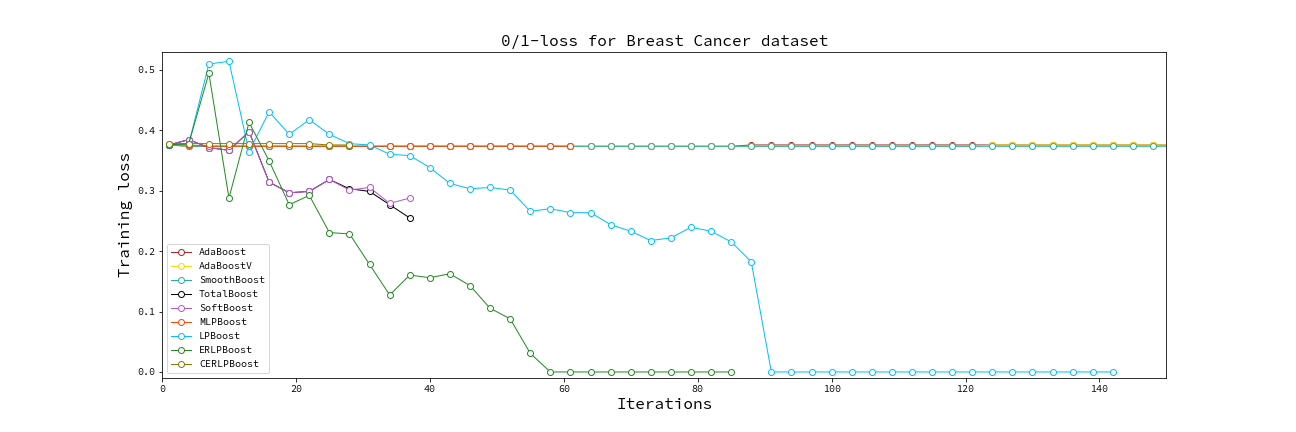
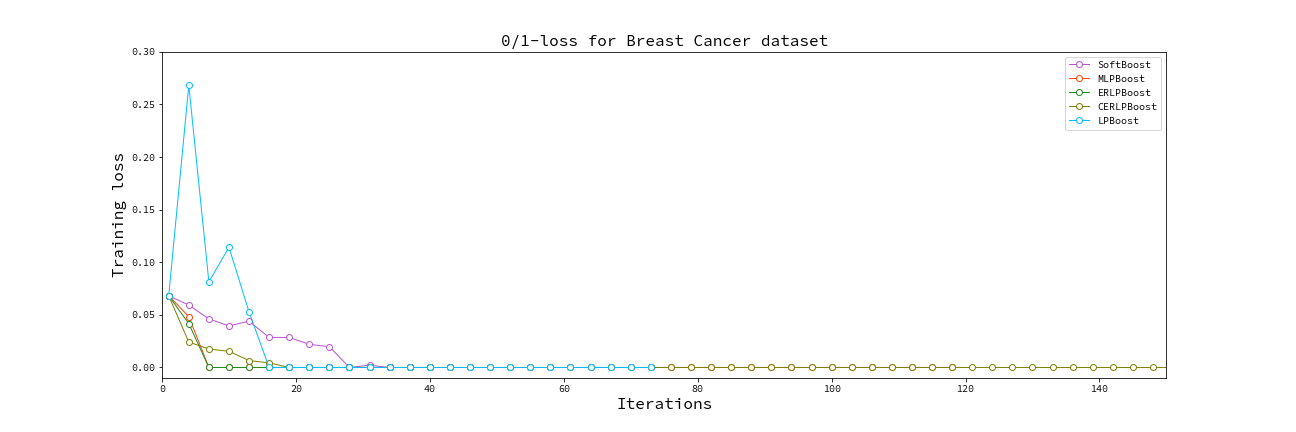
Update Figures in README

diff --git a/img/example/src/main.rs b/img/example/src/main.rs
@@ -1,9 +1,27 @@
-use polars::prelude::*;
 use miniboosts::prelude::*;
 use miniboosts::research::{
-    boost_logger::with_log,
-    loss_functions::zero_one_loss,
+    Logger,
 };
+use miniboosts::common::objective_functions::{
+    SoftMarginObjective,
+};
+
+
+fn zero_one_loss<H>(sample: &Sample, f: &CombinedHypothesis<H>)
+    -> f64
+    where H: Classifier
+{
+    let n_sample = sample.shape().0 as f64;
+
+    let target = sample.target();
+
+    f.predict_all(sample)
+        .into_iter()
+        .zip(target.into_iter())
+        .map(|(hx, &y)| if hx != y as i64 { 1.0 } else { 0.0 })
+        .sum::<f64>()
+        / n_sample
+}
 
 
 fn main() {
@@ -12,61 +30,61 @@ fn main() {
     // Read the train file
     let path = args.next()
         .expect("[USAGE] ./example [csv file (train)] [csv file (test)]");
-    let mut train_x = CsvReader::from_path(path)
+
+    let train = Sample::from_csv(path, true)
         .unwrap()
-        .has_header(true)
-        .finish()
-        .unwrap();
-    let train_y = train_x.drop_in_place("class").unwrap();
+        .set_target("class");
 
+    let n_sample = train.shape().0 as f64;
+    let nu = 0.01 * n_sample;
 
-    // Read the test file
     let path = args.next()
         .expect("[USAGE] ./example [csv file (train)] [csv file (test)]");
-    let mut test_x = CsvReader::from_path(path)
+    let test = Sample::from_csv(path, true)
         .unwrap()
-        .has_header(true)
-        .finish()
-        .unwrap();
-    let test_y = test_x.drop_in_place("class").unwrap();
-
-
-
-    let n_sample = train_x.shape().0 as f64;
+        .set_target("class");
 
 
     // // Run AdaBoost
-    // let booster = AdaBoost::init(&train_x, &train_y)
+    // let objective = SoftMarginObjective::new(1.0);
+    // println!("Running AdaBoost");
+    // let booster = AdaBoost::init(&train)
     //     .tolerance(0.01);
-    // let tree = DTree::init(&train_x, &train_y)
+    // let tree = DTree::init(&train)
     //     .max_depth(2)
-    //     .criterion(Criterion::Edge);
-    // let _ = with_log(
-    //     booster, tree, zero_one_loss, &test_x, &test_y, "adaboost.csv"
-    // ).unwrap();
+    //     .criterion(Criterion::Entropy);
+    // let mut logger = Logger::new(
+    //     booster, tree, objective, zero_one_loss, &train, &test
+    // );
+    // let _ = logger.run("adaboost.csv");
 
 
     // // Run AdaBoostV
-    // let booster = AdaBoostV::init(&train_x, &train_y)
+    // let objective = SoftMarginObjective::new(1.0);
+    // println!("Running AdaBoostV");
+    // let booster = AdaBoostV::init(&train)
     //     .tolerance(0.01);
-    // let tree = DTree::init(&train_x, &train_y)
+    // let tree = DTree::init(&train)
     //     .max_depth(2)
-    //     .criterion(Criterion::Edge);
-    // let _ = with_log(
-    //     booster, tree, zero_one_loss, &test_x, &test_y, "adaboostv.csv"
-    // ).unwrap();
+    //     .criterion(Criterion::Entropy);
+    // let mut logger = Logger::new(
+    //     booster, tree, objective, zero_one_loss, &train, &test
+    // );
+    // let _ = logger.run("adaboostv.csv");
 
 
     // // Run TotalBoost
+    // let objective = SoftMarginObjective::new(1.0);
     // println!("Running TotalBoost");
-    // let booster = TotalBoost::init(&train_x, &train_y)
+    // let booster = TotalBoost::init(&train)
     //     .tolerance(0.01);
-    // let tree = DTree::init(&train_x, &train_y)
+    // let tree = DTree::init(&train)
     //     .max_depth(2)
-    //     .criterion(Criterion::Edge);
-    // let _ = with_log(
-    //     booster, tree, zero_one_loss, &test_x, &test_y, "totalboost.csv"
-    // ).unwrap();
+    //     .criterion(Criterion::Entropy);
+    // let mut logger = Logger::new(
+    //     booster, tree, objective, zero_one_loss, &train, &test
+    // );
+    // let _ = logger.run("totalboost.csv");
 
 
     // // Run SmoothBoost
@@ -75,79 +93,91 @@ fn main() {
     // // for any distribution, the weak learner returns a hypothesis
     // // such that the edge is at least 0.006.
     // // This value `0.006` is derived from the LPBoost.
+    // let objective = SoftMarginObjective::new(nu);
     // println!("Running SmoothBoost");
-    // let booster = SmoothBoost::init(&train_x, &train_y)
+    // let booster = SmoothBoost::init(&train)
     //     .tolerance(0.01)
     //     .gamma(0.006);
-    // let tree = DTree::init(&train_x, &train_y)
+    // let tree = DTree::init(&train)
     //     .max_depth(2)
-    //     .criterion(Criterion::Edge);
-    // let _ = with_log(
-    //     booster, tree, zero_one_loss, &test_x, &test_y, "smoothboost.csv"
-    // ).unwrap();
+    //     .criterion(Criterion::Entropy);
+    // let mut logger = Logger::new(
+    //     booster, tree, objective, zero_one_loss, &train, &test
+    // );
+    // let _ = logger.run("smoothboost.csv");
 
 
-    // Run SoftBoost
-    println!("Running SoftBoost");
-    let booster = SoftBoost::init(&train_x, &train_y)
-        .tolerance(0.01)
-        .nu(0.01 * n_sample);
-    let tree = DTree::init(&train_x, &train_y)
-        .max_depth(2)
-        .criterion(Criterion::Edge);
-    let _ = with_log(
-        booster, tree, zero_one_loss, &test_x, &test_y, "softboost.csv"
-    ).unwrap();
+    // // Run SoftBoost
+    // let objective = SoftMarginObjective::new(nu);
+    // println!("Running SoftBoost");
+    // let booster = SoftBoost::init(&train)
+    //     .tolerance(0.01)
+    //     .nu(nu);
+    // let tree = DTree::init(&train)
+    //     .max_depth(2)
+    //     .criterion(Criterion::Entropy);
+    // let mut logger = Logger::new(
+    //     booster, tree, objective, zero_one_loss, &train, &test
+    // );
+    // let _ = logger.run("softboost.csv");
 
 
-    // Run LPBoost
-    println!("Running LPBoost");
-    let booster = LPBoost::init(&train_x, &train_y)
-        .tolerance(0.01)
-        .nu(0.01 * n_sample);
-    let tree = DTree::init(&train_x, &train_y)
-        .max_depth(2)
-        .criterion(Criterion::Edge);
-    let _ = with_log(
-        booster, tree, zero_one_loss, &test_x, &test_y, "lpboost.csv"
-    ).unwrap();
+    // // Run LPBoost
+    // let objective = SoftMarginObjective::new(nu);
+    // println!("Running LPBoost");
+    // let booster = LPBoost::init(&train)
+    //     .tolerance(0.01)
+    //     .nu(nu);
+    // let tree = DTree::init(&train)
+    //     .max_depth(2)
+    //     .criterion(Criterion::Entropy);
+    // let mut logger = Logger::new(
+    //     booster, tree, objective, zero_one_loss, &train, &test
+    // );
+    // let _ = logger.run("lpboost.csv");
 
 
-    // Run ERLPBoost
-    println!("Running ERLPBoost");
-    let booster = ERLPBoost::init(&train_x, &train_y)
-        .tolerance(0.01)
-        .nu(0.01 * n_sample);
-    let tree = DTree::init(&train_x, &train_y)
-        .max_depth(2)
-        .criterion(Criterion::Edge);
-    let _ = with_log(
-        booster, tree, zero_one_loss, &test_x, &test_y, "erlpboost.csv"
-    ).unwrap();
+    // // Run ERLPBoost
+    // let objective = SoftMarginObjective::new(nu);
+    // println!("Running ERLPBoost");
+    // let booster = ERLPBoost::init(&train)
+    //     .tolerance(0.01)
+    //     .nu(nu);
+    // let tree = DTree::init(&train)
+    //     .max_depth(2)
+    //     .criterion(Criterion::Entropy);
+    // let mut logger = Logger::new(
+    //     booster, tree, objective, zero_one_loss, &train, &test
+    // );
+    // let _ = logger.run("erlpboost.csv");
 
 
     // Run Corrective ERLPBoost
+    let objective = SoftMarginObjective::new(nu);
     println!("Running CERLPBoost");
-    let booster = CERLPBoost::init(&train_x, &train_y)
+    let booster = CERLPBoost::init(&train)
         .tolerance(0.01)
-        .nu(0.01 * n_sample);
-    let tree = DTree::init(&train_x, &train_y)
+        .nu(nu);
+    let tree = DTree::init(&train)
         .max_depth(2)
-        .criterion(Criterion::Edge);
-    let _ = with_log(
-        booster, tree, zero_one_loss, &test_x, &test_y, "cerlpboost.csv"
-    ).unwrap();
+        .criterion(Criterion::Entropy);
+    let mut logger = Logger::new(
+        booster, tree, objective, zero_one_loss, &train, &test
+    );
+    let _ = logger.run("cerlpboost.csv");
 
 
-    // Run MLPBoost
-    println!("Running MLPBoost");
-    let booster = MLPBoost::init(&train_x, &train_y)
-        .tolerance(0.01)
-        .nu(0.01 * n_sample);
-    let tree = DTree::init(&train_x, &train_y)
-        .max_depth(2)
-        .criterion(Criterion::Edge);
-    let _ = with_log(
-        booster, tree, zero_one_loss, &test_x, &test_y, "mlpboost.csv"
-    ).unwrap();
+    // // Run MLPBoost
+    // let objective = SoftMarginObjective::new(nu);
+    // println!("Running MLPBoost");
+    // let booster = MLPBoost::init(&train)
+    //     .tolerance(0.01)
+    //     .nu(nu);
+    // let tree = DTree::init(&train)
+    //     .max_depth(2)
+    //     .criterion(Criterion::Entropy);
+    // let mut logger = Logger::new(
+    //     booster, tree, objective, zero_one_loss, &train, &test
+    // );
+    // let _ = logger.run("mlpboost.csv");
 }

diff --git a/src/booster/cerlpboost.rs b/src/booster/cerlpboost.rs
@@ -445,10 +445,15 @@ impl<H> Research<H> for CERLPBoost<'_, H>
     where H: Classifier + Clone,
 {
     fn current_hypothesis(&self) -> CombinedHypothesis<H> {
+        let total_weight = self.classifiers.iter()
+            .map(|(_, w)| w.abs())
+            .sum::<f64>();
 
         let f = self.classifiers.clone()
             .into_iter()
-            .filter_map(|(h, w)| if w != 0.0 { Some((w, h)) } else { None })
+            .filter_map(|(h, w)|
+                if w != 0.0 { Some((w / total_weight, h)) } else { None }
+            )
             .collect::<Vec<_>>();
 
         CombinedHypothesis::from(f)

diff --git a/README.md b/README.md
@@ -181,7 +181,7 @@ fn main() {
     let nu = 0.01 * n_sample;
 
 
-    // Read the training data
+    // Read the test data
     let path = "/path/to/test/data.csv";
     let test = Sample::from_csv(path, true)
         .unwrap()
@@ -189,7 +189,7 @@ fn main() {
 
 
     let booster = LPBoost::init(&train);
-    let weak_learner = DTree::init(&test)
+    let weak_learner = DTree::init(&train)
         .max_depth(2)
         .criterion(Criterion::Entropy);
 
